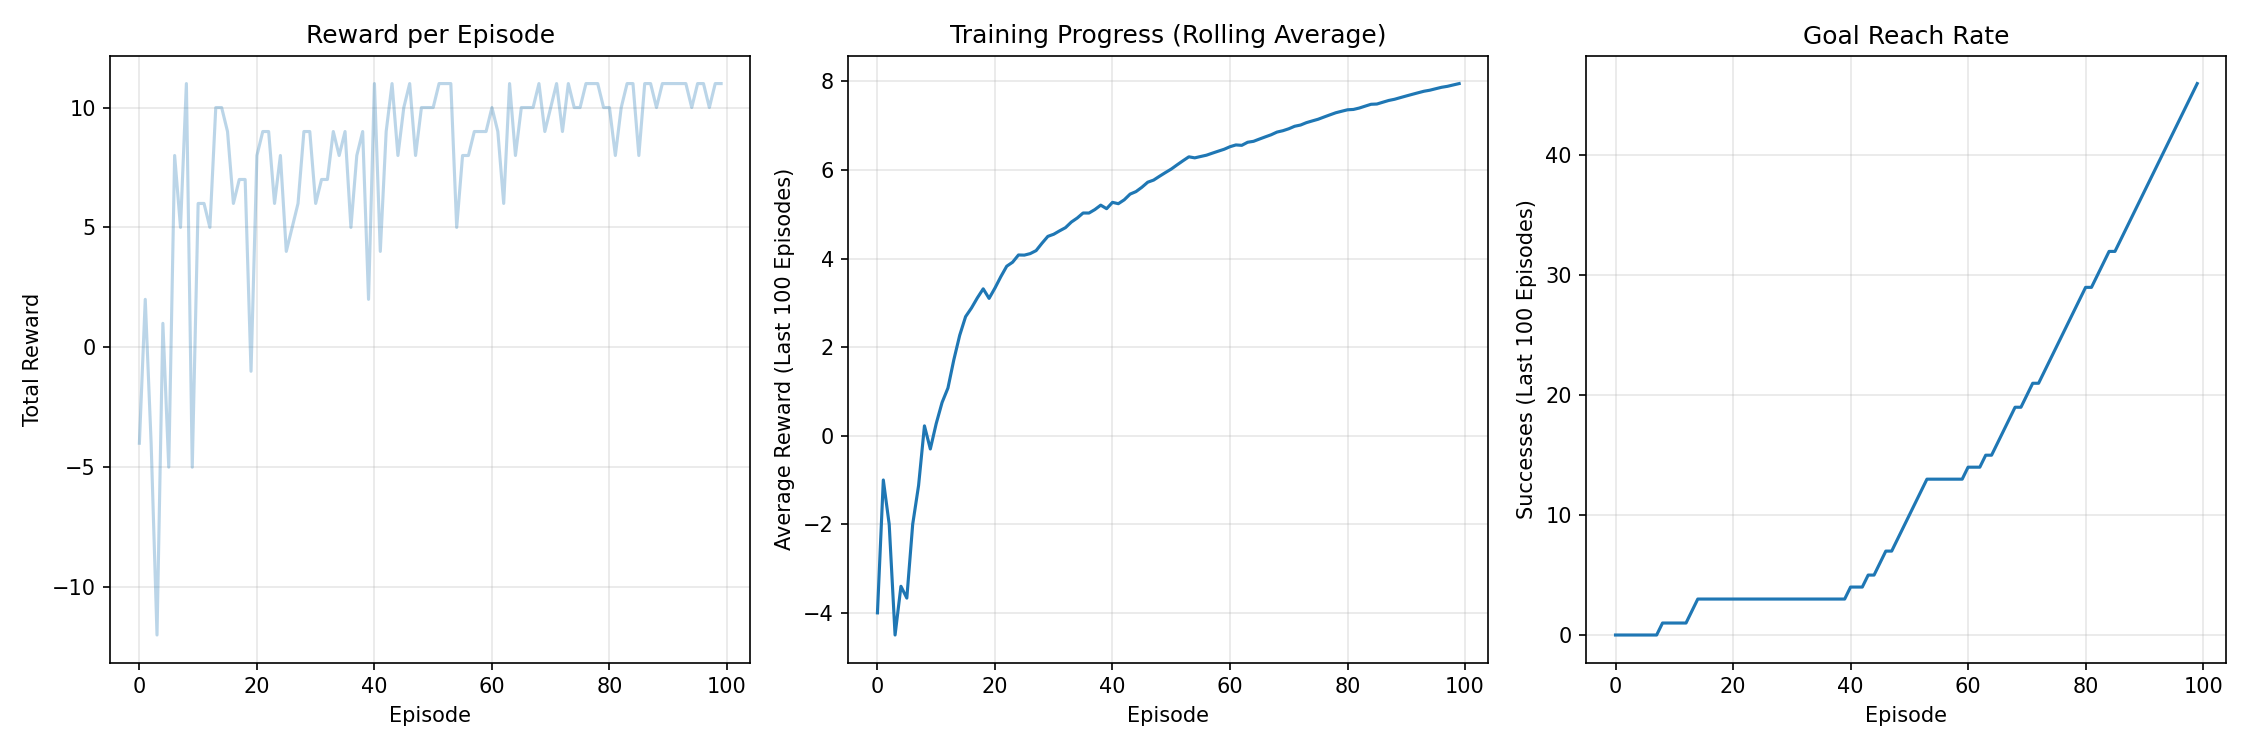
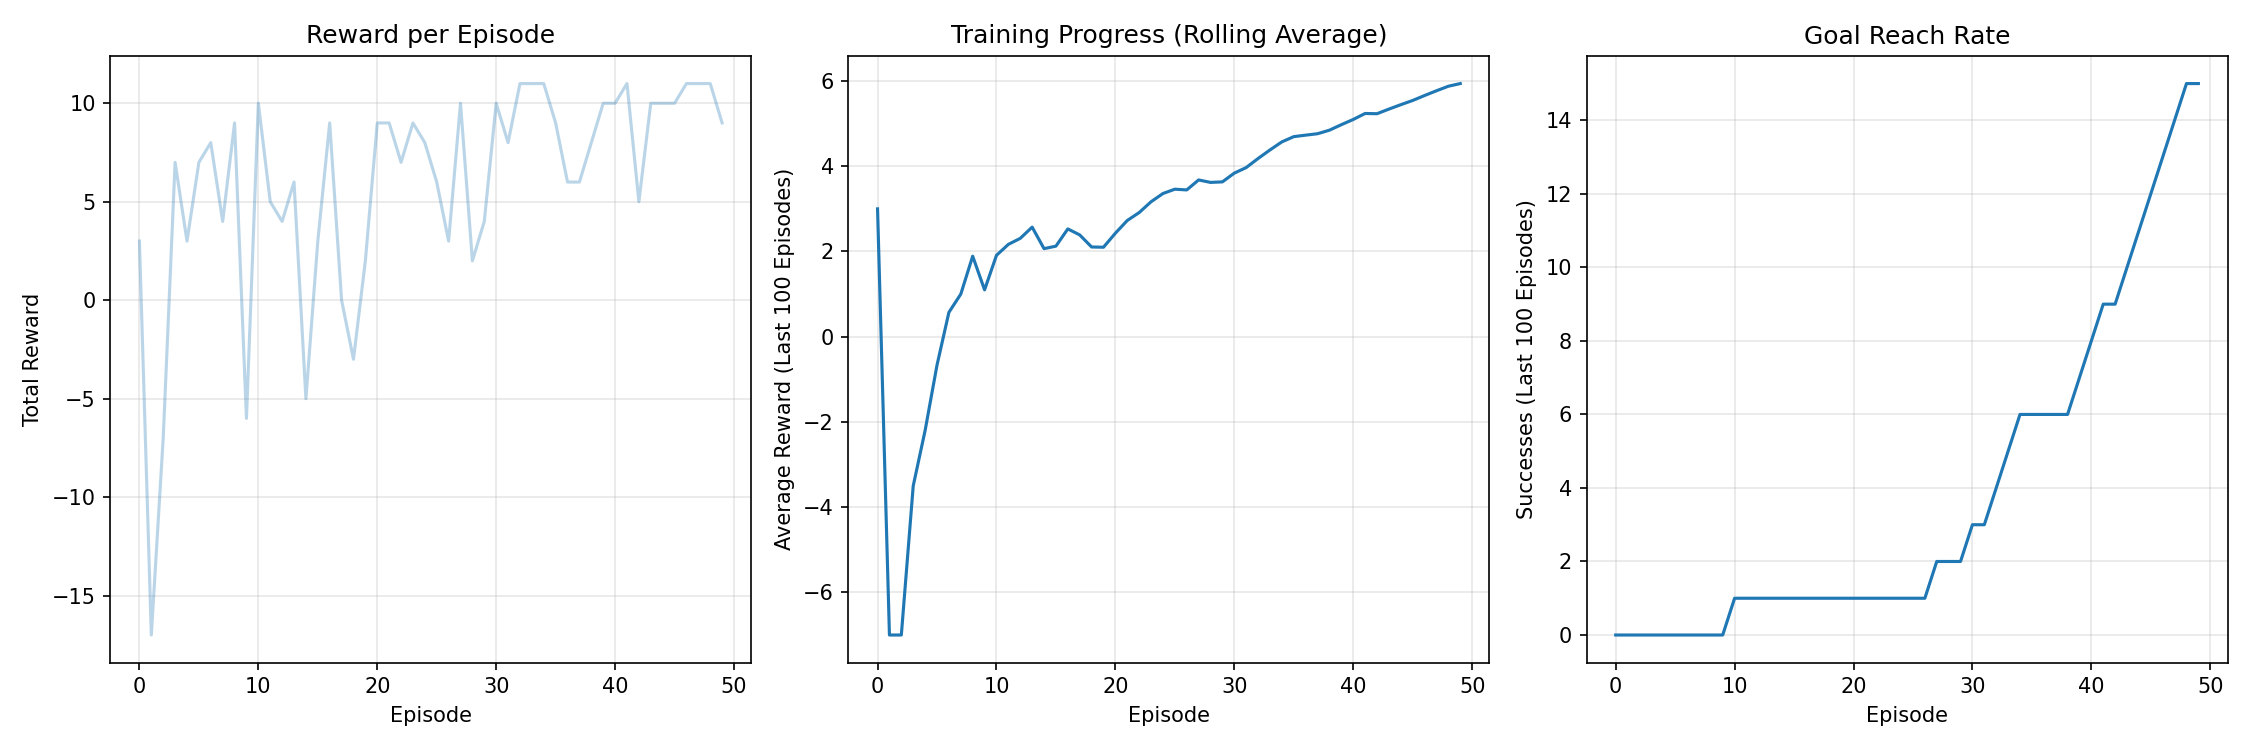
clean up

diff --git a/gym/reze/load_and_see_train.py b/gym/reze/load_and_see_train.py
@@ -109,10 +109,12 @@ def train_with_visualization(episodes=100, render=True, delay=0.1, model_path=No
 
     env.close()
 
+    save_gif_loc = "gifs/training_process.gif"
+
     # Save GIF
     if save_gif and frames:
         print(f"\nSaving GIF with {len(frames)} frames...")
-        imageio.mimsave(f'pkls/100ep/training_process.gif', frames, fps=5, loop=0)
+        imageio.mimsave(f'{save_gif_loc}', frames, fps=5, loop=0)
         print("GIF saved as 'gifs/training_process.gif'")
     
     print(f"\nTraining completed!")
@@ -122,7 +124,7 @@ if __name__ == "__main__":
     # train_with_visualization(episodes=50, render=True, delay=0.05, save_gif=False)
     
     # OR load existing model and continue training
-    train_with_visualization(episodes=5, render=True, delay=0.05, model_path="pkls/100ep/reze.pkl", save_gif=True)
+    train_with_visualization(episodes=5, render=False, delay=0.05, model_path="pkls/reze_raqib_config.pkl", save_gif=True)
     
     # OR save training as GIF
     # train_with_visualization(episodes=50, render=False, save_gif=True)

diff --git a/gym/reze/custom_grid_env.py b/gym/reze/custom_grid_env.py
@@ -34,10 +34,10 @@ class CustomGridEnv(gym.Env):
     def __init__(self, 
                  grid_layout=None,
                  render_mode=None,
-                 agent_sprite='sprites/robot.png', # change this to robot for presentation woi
+                 agent_sprite='sprites/reze_devil_form.png', # change this to robot for presentation woi
                  goal_sprite='sprites/house.png',
                  floor_sprite='sprites/tiles.jpg',
-                 obstacle_sprite='sprites/pedestrian.png', # change this to pedestrian for presentation woi
+                 obstacle_sprite='sprites/makima.png', # change this to pedestrian for presentation woi
                  safe_zone_sprite='sprites/safe.jpg',
                  cell_size=64):
         

diff --git a/gym/reze/simple_heatmap_anim.py b/gym/reze/simple_heatmap_anim.py
@@ -35,7 +35,7 @@ def save_heatmap_gif(snapshots, snapshot_episodes, grid_rows, grid_cols, episode
                     text_color = 'black' if q_grid[i, j] > q_grid.max() * 0.5 else 'white'
                     
                     ax.text(j, i, f'{q_grid[i,j]:.1f}\n{actions[best_action]}', 
-                            ha='center', va='center', color=text_color, fontweight='bold')
+                            ha='center', va='center', color=text_color, fontweight='bold', fontsize=20)
             
             # Add colorbar (remove old one if exists)
             if idx == 0:

diff --git a/gym/reze/train_reze_raqib_configs.py b/gym/reze/train_reze_raqib_configs.py
@@ -115,4 +115,4 @@ def run(episodes, render=False, heatmap_gif=False, gif_interval=10):
     return q
 
 if __name__ == "__main__":
-    q_table = run(100, render=False, heatmap_gif=True, gif_interval=1)
+    q_table = run(50, render=False, heatmap_gif=True, gif_interval=1)

diff --git a/gym/reze/README.md b/gym/reze/README.md
@@ -9,27 +9,27 @@ py train_reze.py
 2. If you want to train with your specific configurations, here is a list of hardcoded configs you can find in train_reze.py:
 
 ```python
-    # LAYOUT
-    grid_layout = [
-        ['S', ' ', 'R', ' '],
-        [' ', 'O', ' ', ' '],
-        [' ', ' ', ' ', 'O'],
-        ['O', ' ', ' ', 'G']
-    ]
-    # S: START (reze), R: REWARD, O: OBSTACLE (makima), G: GOAL (your house)
-    # NOTE: Don't forget to change the layout on load_reze.py too if you want the same result.
-    
-    # Q-VALUE FORMULA
-    learning_rate = 0.9  # alpha
-    discount_factor = 0.9  # gamma
+# LAYOUT
+grid_layout = [
+    ['S', ' ', 'R', ' '],
+    [' ', 'O', ' ', ' '],
+    [' ', ' ', ' ', 'O'],
+    ['O', ' ', ' ', 'G']
+]
+# S: START (reze), R: REWARD, O: OBSTACLE (makima), G: GOAL (your house)
+# NOTE: Don't forget to change the layout on load_reze.py too if you want the same result.
 
-    # EPSILON GREEDY POLICY
-    epsilon = 1
-    epsilon_decay_rate = 0.0001
+# Q-VALUE FORMULA
+learning_rate = 0.9  # alpha
+discount_factor = 0.9  # gamma
 
-    # NUMBER OF EPISODES (you can find this in at the end of code)
-    if __name__ == "__main__":
-        q_table = run(NUMBER_OF_EPISODE, render=False)
+# EPSILON GREEDY POLICY
+epsilon = 1
+epsilon_decay_rate = 0.0001
+
+# NUMBER OF EPISODES (you can find this in at the end of code)
+if __name__ == "__main__":
+    q_table = run(NUMBER_OF_EPISODE, render=False)
 ```
 
 3. To see the training in real time head over to at the end of code in train_reze.py, and set render to True
@@ -44,11 +44,29 @@ if __name__ == "__main__":
 ```bash
 py load_reze.py
 ```
->Note: Run train_reze.py first to generate reze.pkl (the model)
+> Note: Run train_reze.py first to generate reze.pkl (the model)
 
-5. Fun fact: You can also save your gif now, yay!
+## Fun fact: You can also save your gif now, yay!
 
+> Note: Change render=False to ensure save gif working properly.
+
+To save gif of Reze *optimal policy* in action, run *load_reze.py* with save_gif=True:
+```python
+load_and_test_model(model_path="pkls/reze_raqib_config.pkl", episodes=10, render=False, save_gif=True)
+```
 ![INCOMING REZEEEEEEE](gifs/reze_delivery.gif)
+
+To save gif of Reze *training process* in action, run *load_and_see_train.py* with save_gif=True:
+```python
+train_with_visualization(episodes=5, render=False, model_path="pkls/reze_raqib_config.pkl", save_gif=True)
+```
+![INCOMING REZEEEEEEE](gifs/training_process.gif)
+
+To save gif of heatmap of Reze q-table update during training, run *train_reze.py* with save heatmap_gif=True:
+```Python
+run(100, render=False, heatmap_gif=True, gif_interval=1,)
+```
+![INCOMING REZEEEEEEE](gifs/raqib_heatmap.gif)
 
 ### Now, you can experience Reze delivered to your house !
 ![INCOMING REZEEEEEEE](sprites/reze_devil_form.png)
